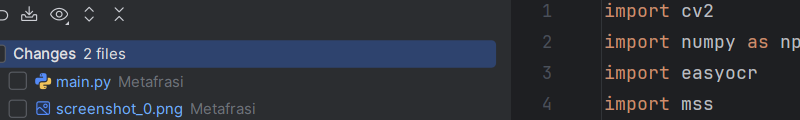
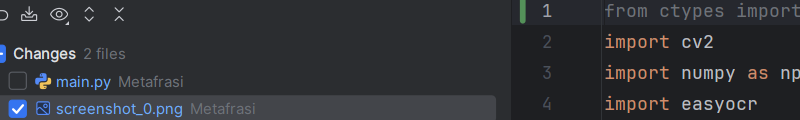
Upgrade

diff --git a/main.py b/main.py
@@ -1,3 +1,4 @@
+from ctypes import windll, Structure, c_long, byref
 import cv2
 import numpy as np
 import easyocr
@@ -60,8 +61,9 @@ try:
             try:
                 print(text_recognition(img_resized)[0].translate(str.maketrans('', '', string.punctuation)))
             except:
+                print('Empty')
                 continue
-            time.sleep(3)
+            time.sleep(4)
 
         # Читаем клавиатуру с небольшой задержкой для правильной обработки клавиш
         key = cv2.waitKey(100) & 0xFF
